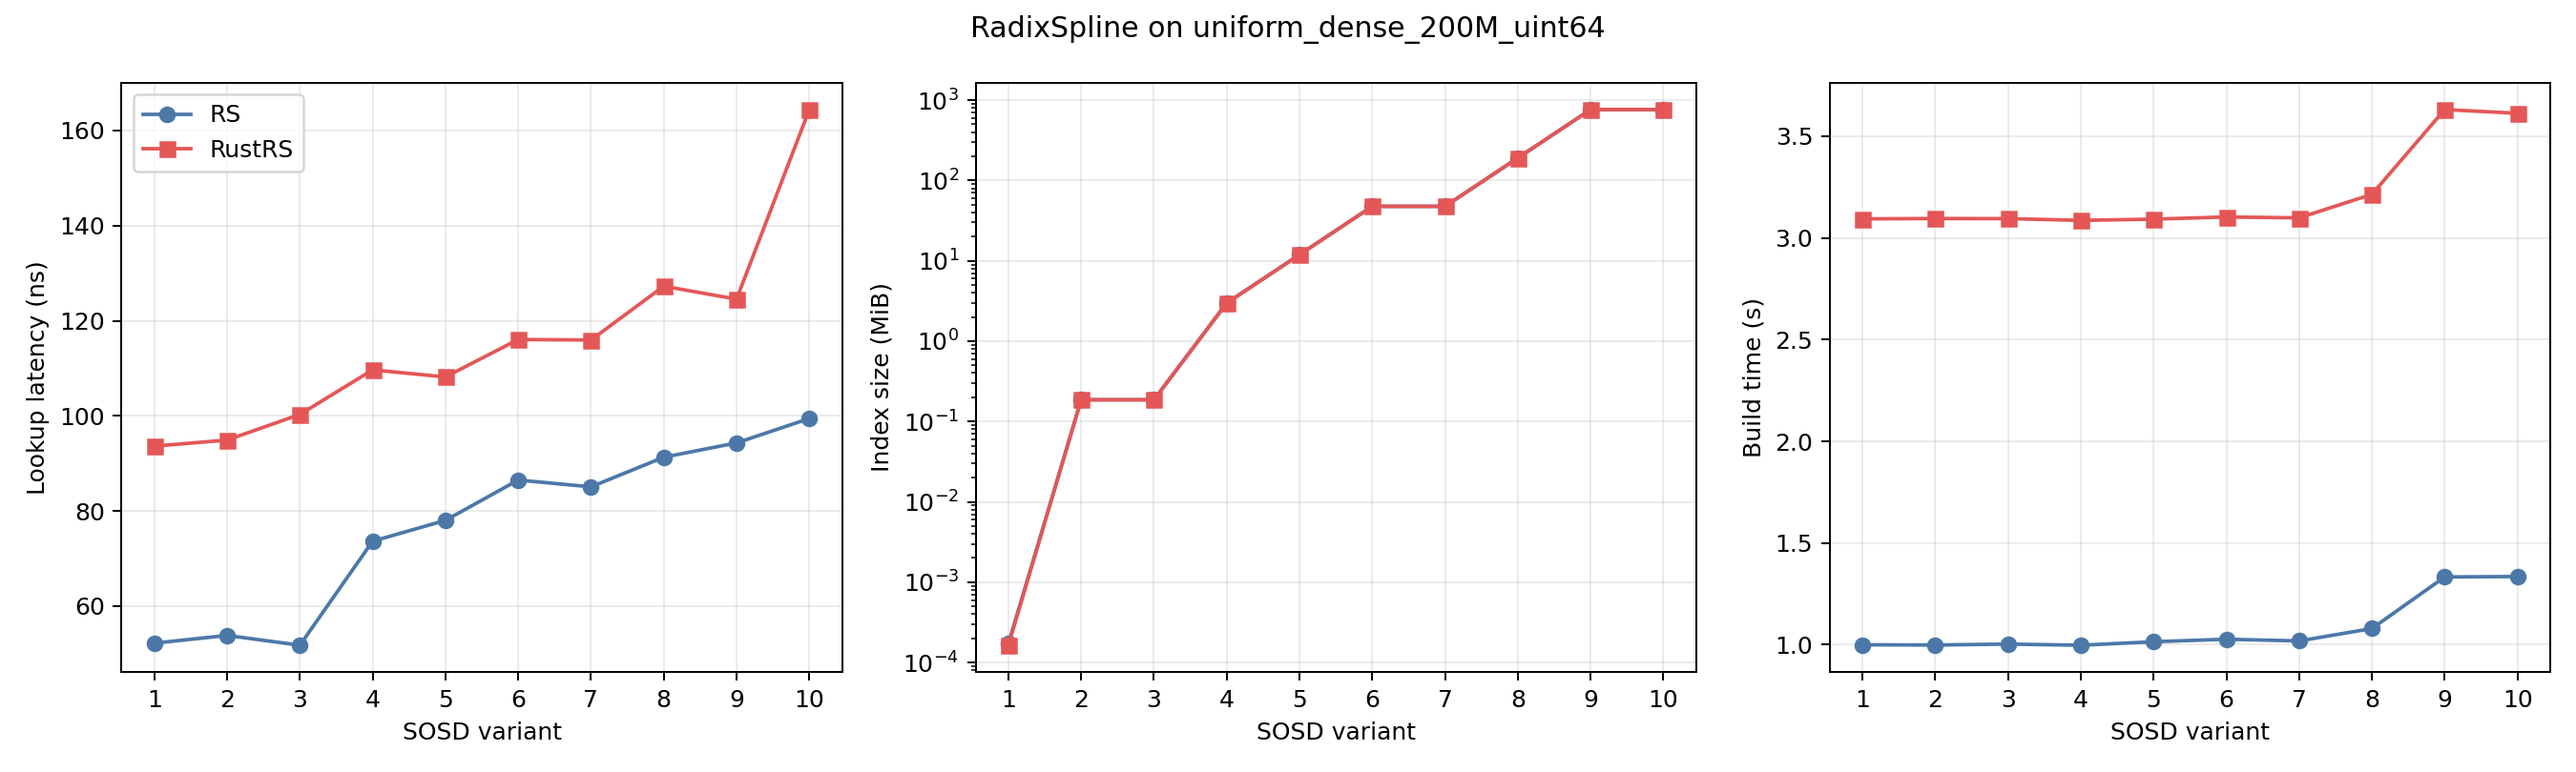
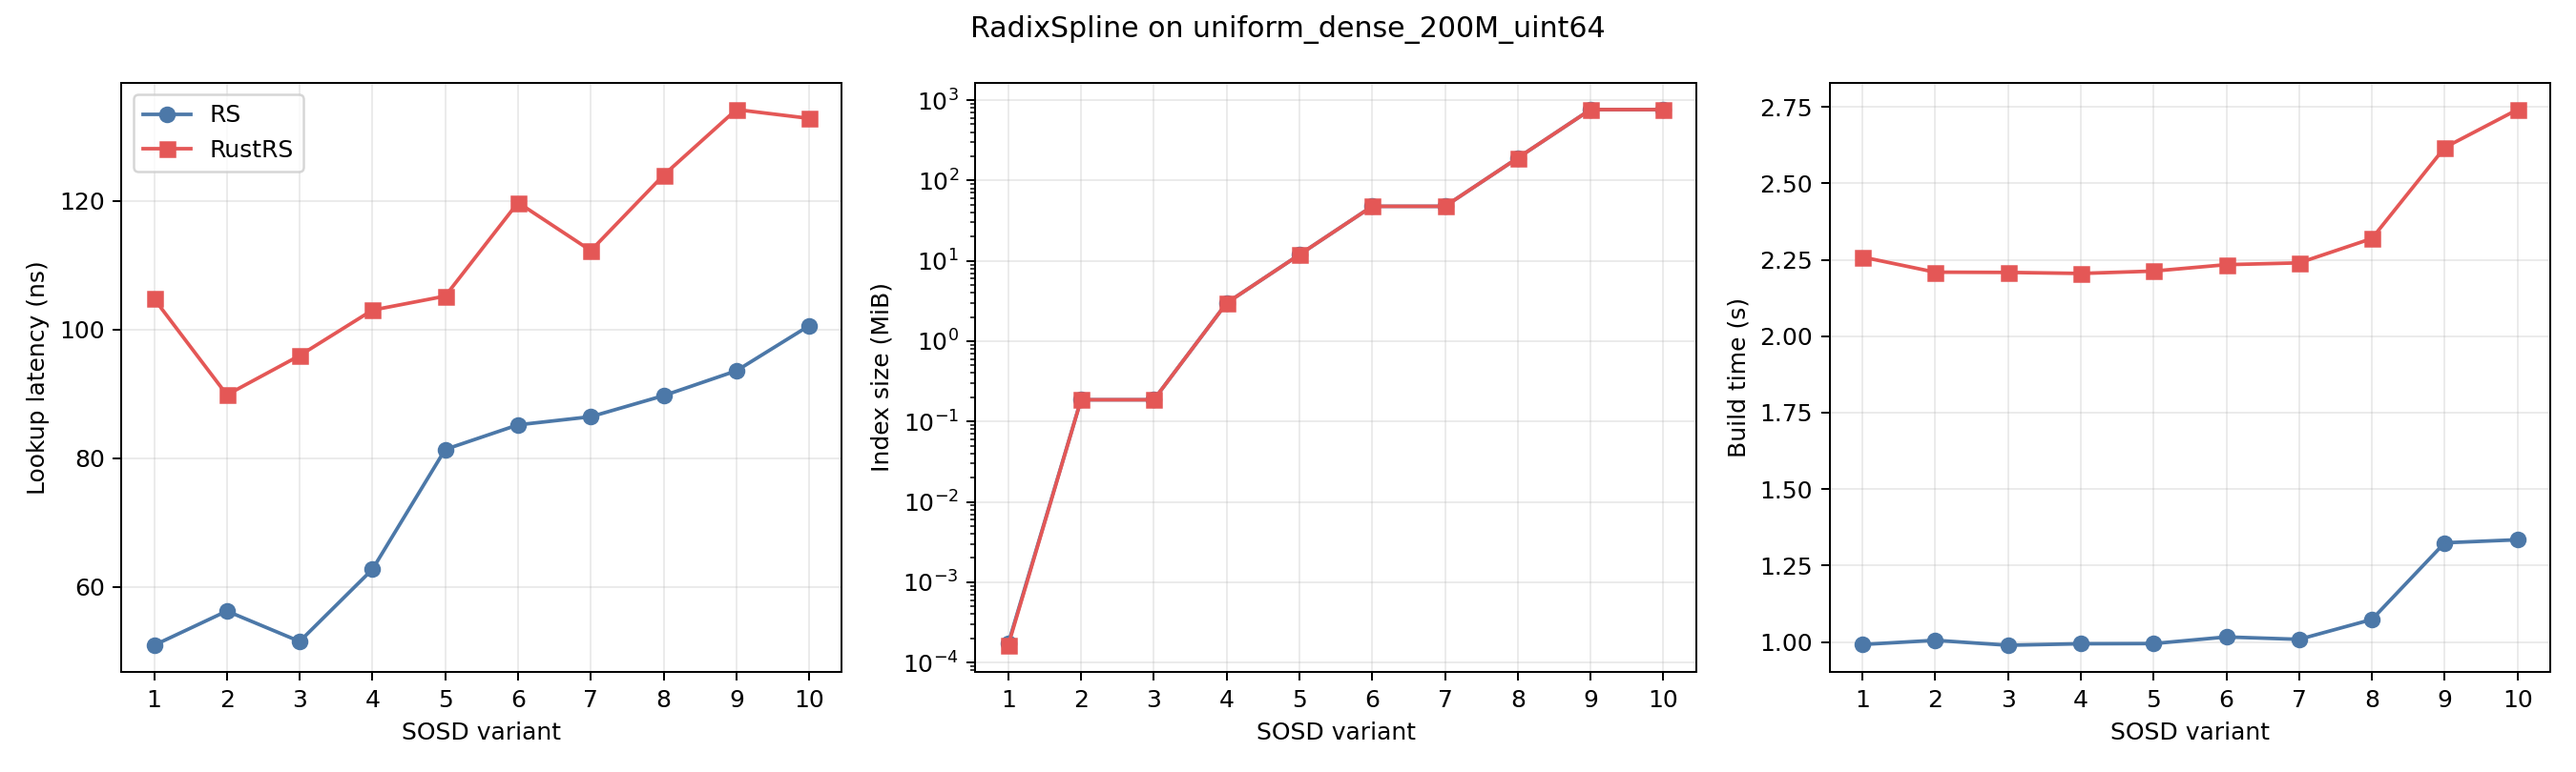
Update benchmark again!

diff --git a/README.md b/README.md
@@ -20,9 +20,9 @@ to construct the object and box it added a layer of indirection. In comparison t
 original implementation can benefit from inlining and lesser indirection from the
 harness code. Because of this I'm not overly concerned with the gap in lookup latency.
 
-Likewise with the construction, the Rust one ends up having to copy the data and extract
-the keys with the current implementation resulting in a 1.6GB memcpy which C++ doesn't have
-to do in the benchmark. This likely explains the slower construction as well.
+I have made some changes to the harness to replicate some of the copying that needs doing
+for the Rust C API design that the C++ version didn't do to try and make it more of an equal
+footing.
 
 Contrastingly, I'm happy the index size is a consistent 8 bytes smaller (likely due to
 padding).
